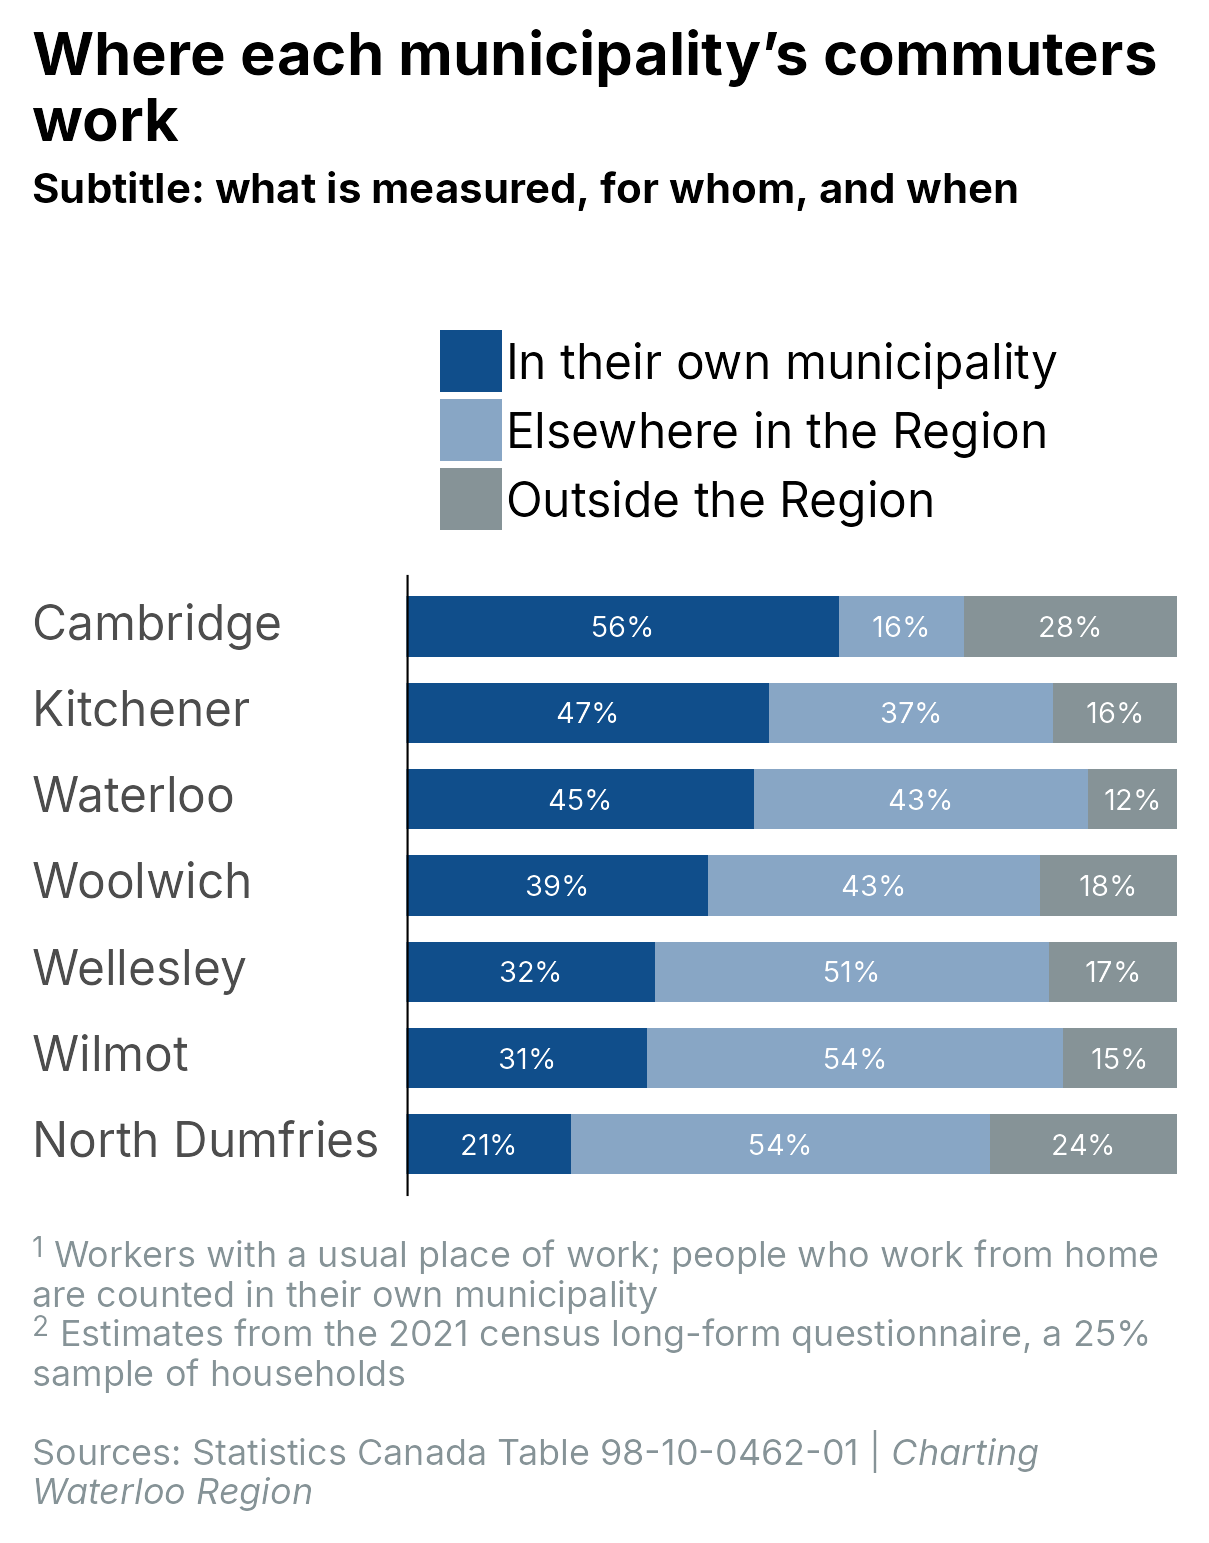
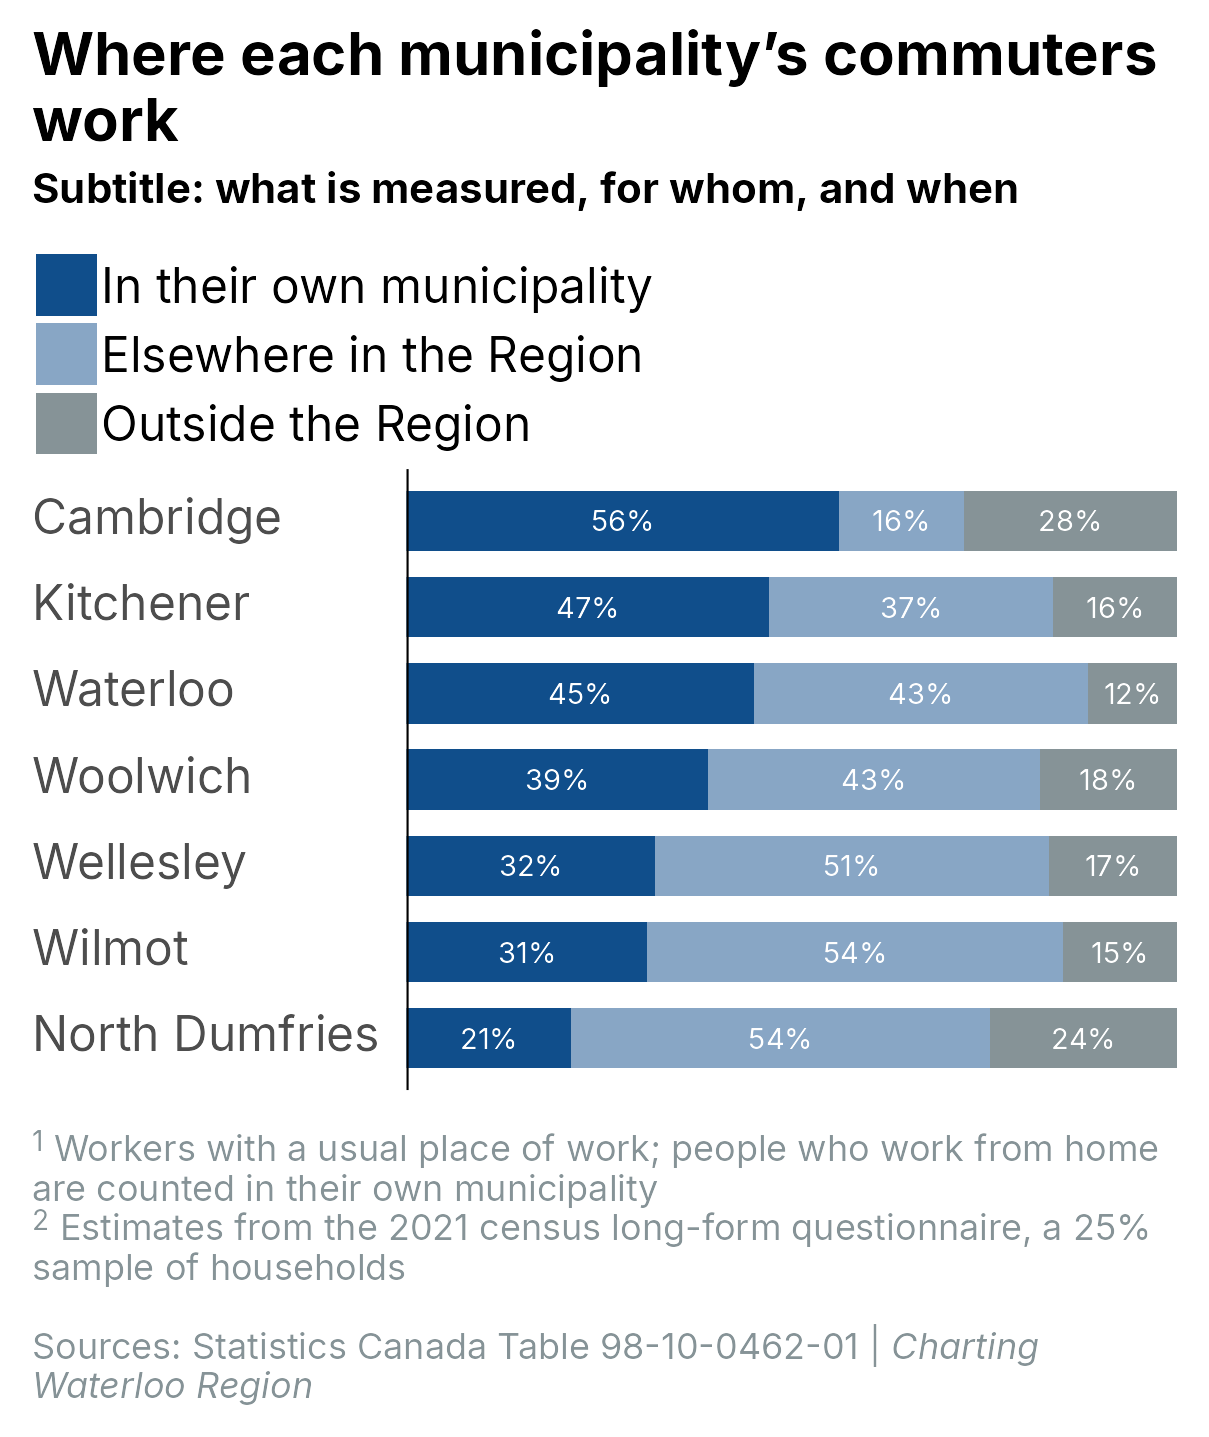
Drop the subtitle <br> from templates and sync snippets into RStudio
The subtitle placeholder and six line and scatter snippets no longer end
with <br>; Greg adds one by hand where a chart needs it. The <br> had
been what kept theme_cwr()'s floating legend off the bars, so a chart
with a legend now gives it its own top row, left-aligned under the title
with no padding. The commuting post's first chart is the worked case,
which also closes the gap between its subtitle and legend on phones.

build_chart_references.R now also installs the snippets into RStudio's
own snippet file on every run: repo snippets replace or add by name,
snippets only RStudio has are kept, and a dated backup is written when
the file changes. CLAUDE.md, WORKFLOW.md and the script header make
_dev/r.snippets the only copy anyone edits.

diff --git a/WORKFLOW.md b/WORKFLOW.md
@@ -153,7 +153,7 @@ What readers get, at publish time (3.7), is `<slug>-data-v<n>.zip` attached to t
 
 The template gives the structure: an opening paragraph with the question and the answer, sections with plain-language headings, one chart or table per section, a Data sources section (which prints the source table straight from the post's README.md), an optional Other sources section for anything cited that is not data, and a collapsed Reproducibility box at the end.
 
-- **Charts.** Ask Claude for the chart you want ("a ranked lollipop of housing starts per 1,000 residents for the Big 12, Waterloo Region bolded"). You do not have to name a template - describing what the chart should show is enough - but [CHARTS.md](CHARTS.md) lists every one of them with what it is good for, which is the quickest way to see what is possible. It is generated by `Rscript _dev/build_chart_references.R` from the same catalogue as the skill's templates, so it cannot drift; never edit it by hand. The `cwr-charts` skill loads automatically: it picks a template from the snippet library, applies the house colours and theme, renders the chart to a PNG, looks at it, and tunes label positions before putting the code in the post. Every chart is built as `p` and handed to `cwr_figure(p, "fig-name", alt = )`, which draws it twice, once at the paragraph width for desktops and once at half that for phones, saves both PNGs in the post's `figures/` folder (committed), and writes the figure so the browser shows the right one. Text stays the same size in both, so phone readers never need to tap to enlarge. A chart with categories down its side - bars, lollipops - sets its own height from the number of rows, so bars are the same thickness in every chart on the site; only other charts, such as line charts and maps, are given a `height` and `phone_height`. The source line inside the chart comes from `cwr_caption("Source name")`, which names whoever published the numbers. It does not add your own name: a chart that plots a publisher's figures as published is their work. When the numbers on the chart were worked out here instead - a rate you calculated, an index you based, several sources combined - pass `credit = TRUE` and the line gains "\| Charting Waterloo Region".
+- **Charts.** Ask Claude for the chart you want ("a ranked lollipop of housing starts per 1,000 residents for the Big 12, Waterloo Region bolded"). You do not have to name a template - describing what the chart should show is enough - but [CHARTS.md](CHARTS.md) lists every one of them with what it is good for, which is the quickest way to see what is possible. It is generated by `Rscript _dev/build_chart_references.R` from the same catalogue as the skill's templates, so it cannot drift; never edit it by hand. The same run installs the snippets into RStudio, so typing a template's name and pressing Shift+Tab gives the current version: it merges them into RStudio's own snippet file (in `%APPDATA%\RStudio\snippets\`), keeps any snippet only RStudio has, and leaves a dated backup of the file it replaced. Edit snippets in `_dev/r.snippets`, never in RStudio's copy, or the next run replaces the edit. The `cwr-charts` skill loads automatically: it picks a template from the snippet library, applies the house colours and theme, renders the chart to a PNG, looks at it, and tunes label positions before putting the code in the post. Every chart is built as `p` and handed to `cwr_figure(p, "fig-name", alt = )`, which draws it twice, once at the paragraph width for desktops and once at half that for phones, saves both PNGs in the post's `figures/` folder (committed), and writes the figure so the browser shows the right one. Text stays the same size in both, so phone readers never need to tap to enlarge. A chart with categories down its side - bars, lollipops - sets its own height from the number of rows, so bars are the same thickness in every chart on the site; only other charts, such as line charts and maps, are given a `height` and `phone_height`. The source line inside the chart comes from `cwr_caption("Source name")`, which names whoever published the numbers. It does not add your own name: a chart that plots a publisher's figures as published is their work. When the numbers on the chart were worked out here instead - a rate you calculated, an index you based, several sources combined - pass `credit = TRUE` and the line gains "\| Charting Waterloo Region".
 - **Figure numbers depend on the kind of post, and you do not set them.** A Deep dive gets a plain "Figure 1" under each chart, so a paragraph near the end can point back at a chart near the start; write that reference as `@fig-name` in the text and Quarto fills in the number, which keeps it right when charts move. A Snapshot gets no number at all, because a few charts read in five minutes do not need them and the chart's own title says what it shows. `cwr_figure()` works this out from the first word in the post's `categories`. Captions under charts are optional and usually left off: the source is already printed inside the chart, and the subtitle carries the explanation.
 - **Seeing a chart while you write it.** Run the chunk in RStudio and both versions of the chart appear, one after the other: the desktop chart and the phone chart, with the desktop one last. Checking the narrow version therefore costs nothing and needs no argument, which matters, because the phone version is what most readers see and the one that breaks. `draft_phone = TRUE` puts the phone version last instead.
 
@@ -425,7 +425,7 @@ A post is reproducible when someone can clone the repo, run `source("R/packages.
 | Safety check by hand | `bash _dev/check_repo_safety.sh` (after `git add -A`) |
 | Build a data bundle by hand | `Rscript -e 'source("R/data_bundle.R"); cwr_data_bundle("<slug>", version = 1)'` |
 | Refresh a post's README data dictionary | `Rscript -e 'source("R/data_bundle.R"); cwr_dictionary_readme("<slug>")'` |
-| Rebuild chart templates after editing snippets | `Rscript _dev/build_chart_references.R` |
+| Rebuild chart templates and update RStudio's snippets after editing `_dev/r.snippets` | `Rscript _dev/build_chart_references.R` |
 | Rebuild the logo, favicons and social card | `Rscript _dev/logo/make_logo.R` |
 | See what is live versus what is committed | `git fetch origin` then compare `origin/master` with `origin/gh-pages` |
 

diff --git a/.claude/skills/cwr-charts/SKILL.md b/.claude/skills/cwr-charts/SKILL.md
@@ -72,8 +72,10 @@ Read only the reference file you need; each is self-contained.
 is free of them, so this one is a published commitment rather than a preference. Parts of a whole go
 in `ggvertbar` or `gghorbar`; if a reader needs to compare shares, bars are what let them.
 
-1. **Title says the finding, subtitle says the units and scope.** Subtitle ends with `<br>`
-   when the plot needs breathing room under it. There are no axis titles in this theme, so a
+1. **Title says the finding, subtitle says the units and scope.** A subtitle can end with `<br>`
+   when the plot needs breathing room under it, added by hand where needed - never by default, and
+   not in the placeholder. A legend that needs the room is moved to its own row instead
+   (`legend.position = "top"`), since theme_cwr() floats it above the panel reserving no height. There are no axis titles in this theme, so a
    single-panel chart has nowhere but the subtitle to say what its axis measures. Caption is
    always `cwr_caption("...")`, naming whoever published the numbers and nobody else. It carries no Charting Waterloo Region byline
    by default: plotting a publisher's figures as published is their work, not ours. Pass
@@ -354,10 +356,24 @@ unfinished:
 
 ```r
     title = "Where commuters from Kitchener work",                   # working title, descriptive only
-    subtitle = "Subtitle: what is measured, for whom, and when<br>",
+    subtitle = "Subtitle: what is measured, for whom, and when",
 ```
 
-Keep the trailing `<br>` only where the chart needs room under the subtitle. When an axis is
+The placeholder never ends with `<br>`: Greg adds one by hand where a chart needs room under the
+subtitle (2026-09-18). A chart with a legend gets that room by giving the legend its own row
+instead, with no gap above it and its keys under the title's left edge:
+
+```r
+  theme(
+    legend.position = "top",
+    legend.justification.top = "left",
+    legend.location = "plot",
+    legend.margin = margin(0, 0, 0, 0)
+  )
+```
+
+The commuting post's first chart is the worked case; on the phone it adds only
+`guides(fill = guide_legend(ncol = 1))` and `theme(legend.direction = "vertical")`. When an axis is
 rescaled (style rule 1c), say so in the hand-off line, since the subtitle is where it will go.
 
 ## Iteration loop for label placement

diff --git a/.claude/skills/cwr-charts/references/style-rules.md b/.claude/skills/cwr-charts/references/style-rules.md
@@ -8,8 +8,9 @@ the same call in a situation the templates do not cover.
 
 - **Title = the finding**, written as a sentence a reader could repeat ("Violent crime in
   Waterloo Region rose faster than in Canada after 2014"), not a variable name.
-- **Subtitle = units and scope** ("Incidents per 100,000 people, 2004 to 2024"). It ends with
-  `<br>` when the top of the panel needs space (line charts with labels near the top).
+- **Subtitle = units and scope** ("Incidents per 100,000 people, 2004 to 2024"). A `<br>` is
+  added at its end by hand when the top of the panel needs space (line charts with labels near the
+  top); the templates leave it out.
 - **Caption = source**, always through `cwr_caption()`, naming whoever published the numbers.
   Cite the table number for Statistics Canada. The caption does **not** carry a Charting
   Waterloo Region byline by default: plotting a publisher's figures as published is their

diff --git a/.claude/skills/cwr-charts/references/lines.md b/.claude/skills/cwr-charts/references/lines.md
@@ -120,7 +120,7 @@ ggplot(plot_data, aes(x = <x_variable>, y = <y_variable>, colour = <colour_varia
 	
 	labs(
 	  title = "Title",
-	  subtitle = "Subtitle<br>",
+	  subtitle = "Subtitle",
 	  caption = cwr_caption("Source")
 	)
 ```
@@ -234,7 +234,7 @@ ggplot(plot_data, aes(x = <x_variable>, y = <y_variable>, fill = <colour_variabl
 	
 	labs(
 	  title = "Title",
-	  subtitle = "Subtitle<br>",
+	  subtitle = "Subtitle",
 	  caption = cwr_caption("Source")
 	)
 ```
@@ -375,7 +375,7 @@ plot_data |>
 
   labs(
     title = "Title",
-    subtitle = "Subtitle<br>",
+    subtitle = "Subtitle",
     caption = cwr_caption("Source")
   )
 ```
@@ -474,7 +474,7 @@ ggplot(plot_data, aes(x = <x_variable>, y = <y_variable>, colour = <colour_var>,
 
   labs(
     title = "Title",
-    subtitle = "Subtitle<br>",
+    subtitle = "Subtitle",
     caption = cwr_caption("Source")
   )
 ```

diff --git a/CLAUDE.md b/CLAUDE.md
@@ -30,6 +30,10 @@ R user, new to blogging and to git. Explain git and publishing steps in plain wo
 - Preview server for the Browser pane: `preview_start` with `quarto-preview` (port 4200)
 - Full public render: `quarto render`
 - Publish: `quarto publish gh-pages --no-render --no-prompt` (only via `/publish`)
+- Snippets: `_dev/r.snippets` is the only copy anyone edits. After every change to it run
+  `Rscript _dev/build_chart_references.R`, which regenerates the skill's templates and CHARTS.md
+  and merges the snippets into RStudio's own copy (keeping any snippet only RStudio has, with a
+  dated backup). Never edit RStudio's copy or the generated files by hand.
 - Run R: `Rscript path/to/script.R` (never RStudio addins). Long R snippets go in a scratchpad
   script, not `-e`.
 

diff --git a/CHARTS.md b/CHARTS.md
@@ -118,4 +118,4 @@ Not charts on their own - pieces added to one. Most end with `+` so they paste i
 
 ---
 
-Generated from `_dev/build_chart_references.R` on 2026-09-17. Do not edit this file by hand: add a snippet to `_dev/r.snippets`, describe it in that script's `catalogue` and `picker` tables, and run `Rscript _dev/build_chart_references.R`.
+Generated from `_dev/build_chart_references.R` on 2026-09-18. Do not edit this file by hand: add a snippet to `_dev/r.snippets`, describe it in that script's `catalogue` and `picker` tables, and run `Rscript _dev/build_chart_references.R`.

diff --git a/.claude/skills/cwr-charts/references/points.md b/.claude/skills/cwr-charts/references/points.md
@@ -119,7 +119,7 @@ plot_data |>
   labs(
     x = "<x_title>",
     title = "Title",
-    subtitle = "Subtitle<br>",
+    subtitle = "Subtitle",
     caption = cwr_caption("Source")
   )
 ```
@@ -295,7 +295,7 @@ plot_data |>
   labs(
     x = "<x_title>",
     title = "Title",
-    subtitle = "Subtitle<br>",
+    subtitle = "Subtitle",
     caption = cwr_caption("Source")
   )
 ```
